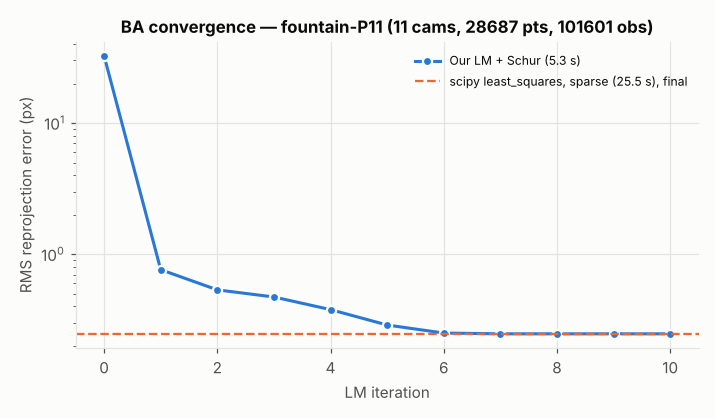
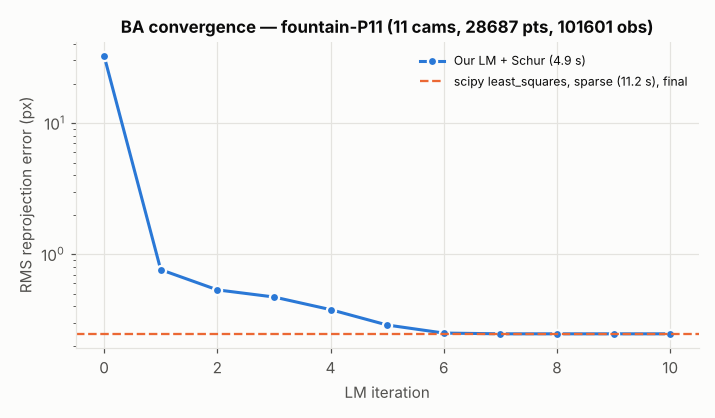
Address review: two-view tail caveat, descent check in triangulation refinement, finite-difference Jacobian test, corrected complexity/threshold/wording, blocks 6 and 8 in oral prep
Claude-Session: https://claude.ai/code/session_01BLpjuZ3eeGdH6tuStmfyAb

Changed region(s): [[0.5846, 0.1866, 0.8923, 0.2177], [0.5846, 0.1244, 0.8308, 0.1555]]

diff --git a/tests/test_robust_pnp_ba.py b/tests/test_robust_pnp_ba.py
@@ -121,3 +121,26 @@ def test_incremental_sfm_synthetic():
         Rrel = Rv @ rec.poses[views[0]][0].T
         Rrel_gt = s.Rs[v] @ s.Rs[views[0]].T
         assert rotation_error_deg(Rrel, Rrel_gt) < 0.3
+
+
+# ---------------- analytic Jacobians vs. finite differences ----------------
+def test_projection_jacobians_finite_differences():
+    from sfm.geometry import project_with_jacobians, project, random_rotation
+    rng = np.random.default_rng(17)
+    K = np.array([[800.0, 0, 500], [0, 810, 380], [0, 0, 1]])
+    R = random_rotation(rng)
+    t = np.array([0.1, 0.2, 6.0])
+    X = rng.normal(size=(20, 3))
+    uv, Jp, Jx = project_with_jacobians(K, R, t, X)
+    eps = 1e-6
+    for k in range(6):
+        d = np.zeros(6)
+        d[k] = eps
+        num = (project(K, so3_exp(d[:3]) @ R, t + d[3:], X)
+               - project(K, so3_exp(-d[:3]) @ R, t - d[3:], X)) / (2 * eps)
+        assert np.allclose(num, Jp[:, :, k], rtol=1e-5, atol=1e-4)
+    for k in range(3):
+        d = np.zeros(3)
+        d[k] = eps
+        num = (project(K, R, t, X + d) - project(K, R, t, X - d)) / (2 * eps)
+        assert np.allclose(num, Jx[:, :, k], rtol=1e-5, atol=1e-4)

diff --git a/sfm/triangulation.py b/sfm/triangulation.py
@@ -68,10 +68,22 @@ def refine_points(Ps: list, xs: list, X0: np.ndarray, iters: int = 10, masks=Non
             g += np.einsum("nki,nk->ni", J, r)
         H += 1e-9 * np.eye(3)
         dX = np.linalg.solve(H, g[..., None])[..., 0]
-        X = X + dX
-        if np.max(np.abs(dX)) < 1e-12:
+        # descent check, per point: keep the step only where the cost decreases
+        Xn = X + dX
+        better = _point_costs(Ps, xs, Xn, masks) < _point_costs(Ps, xs, X, masks)
+        X = np.where(better[:, None], Xn, X)
+        if not better.any() or np.max(np.abs(dX[better])) < 1e-12:
             break
     return X
+
+
+def _point_costs(Ps, xs, X, masks):
+    """Per-point sum of squared reprojection errors over the observing views."""
+    c = np.zeros(len(X))
+    for P, x, m in zip(Ps, xs, masks):
+        proj, _ = _proj_and_jac(P, X)
+        c += m * np.sum((x - proj) ** 2, axis=1)
+    return c
 
 
 def reprojection_errors(P: np.ndarray, X: np.ndarray, x: np.ndarray) -> np.ndarray:

diff --git a/README.md b/README.md
@@ -25,15 +25,15 @@ OpenCV is used only for image I/O, SIFT features, and as a **baseline** for comp
 | RMS reprojection error after BA | **0.247 px** |
 | Camera rotation error vs. ground truth (median / max) | **0.037° / 0.052°** |
 | Camera centre error vs. ground truth (median / max) | 0.03% / 0.05% of scene size |
-| Relative pose, 51 pairs, median rotation / translation-direction error | ours **0.051° / 0.13°**, OpenCV 5-point 0.23° / 0.26° |
-| BA from a perturbed start (RMS 32.5 px), 86k unknowns | our LM + Schur: 10 iterations, 5.3 s; scipy sparse TRF: 25.5 s, same minimum |
-| Run time | SIFT + all-pairs matching 174 s, SfM 52 s (images at 1536×1024) |
+| Relative pose, 51 pairs, median rotation / translation-direction error | ours **0.051° / 0.13°**, OpenCV 5-point 0.23° / 0.26° (but ours has a heavier tail: >1° on 8 wide-baseline pairs vs 3 for OpenCV) |
+| BA from a perturbed start (RMS 32.5 px), 86k unknowns | our LM + Schur: 10 iterations, ~5 s; scipy sparse TRF: 11–25 s, same minimum |
+| Run time | SIFT + all-pairs matching 174 s, SfM 50–70 s (images at 1536×1024) |
 
 Robustness:
 - Least squares fails at 10% wrong matches (rotation error 28°).
-- RANSAC / MSAC / LO-RANSAC stay at ~0.1–0.2° up to 60% outliers.
+- RANSAC / MSAC / LO-RANSAC stay at ~0.1–0.23° up to 60% outliers.
 - At 70%, the 20,000-iteration budget is too small (≈105,000 needed for s = 8), which is the practical breakdown point.
-- In BA, 5% gross errors raise the camera rotation error from 0.05° to 1.06° with L2; with a Cauchy loss it stays at 0.05–0.08° up to 50%.
+- In BA, 5% gross errors raise the camera rotation error from 0.05° to 1.06° with L2; with a Cauchy loss it stays at 0.045–0.079° up to 50%.
 
 ## Pipeline
 
